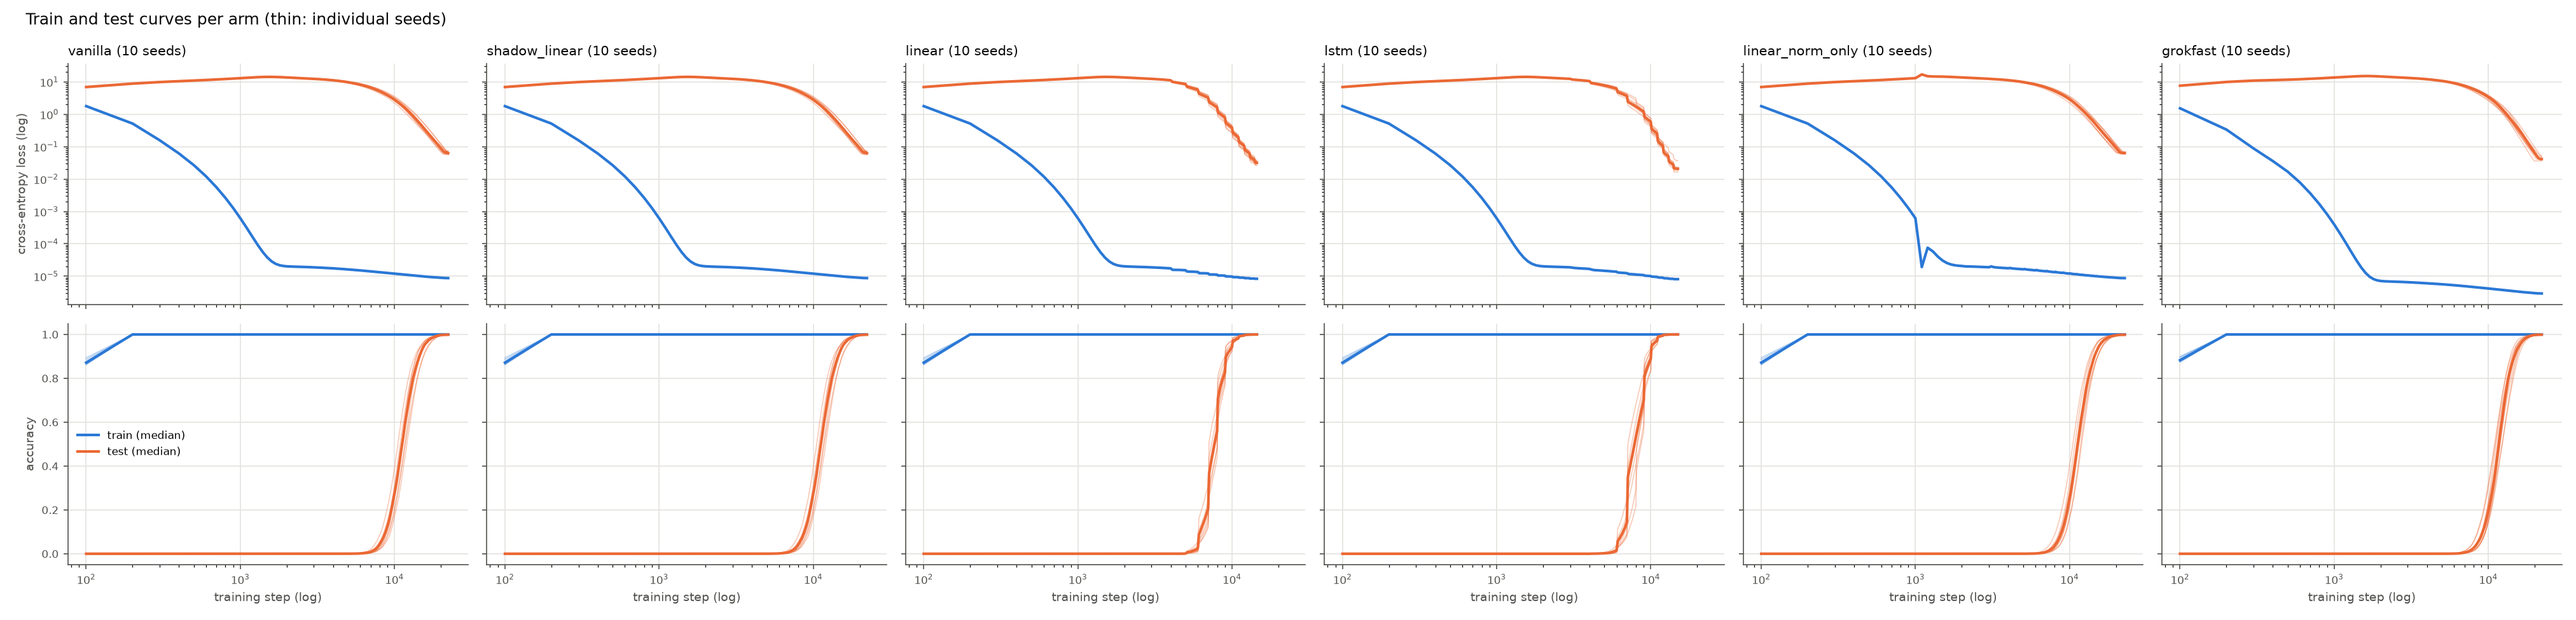
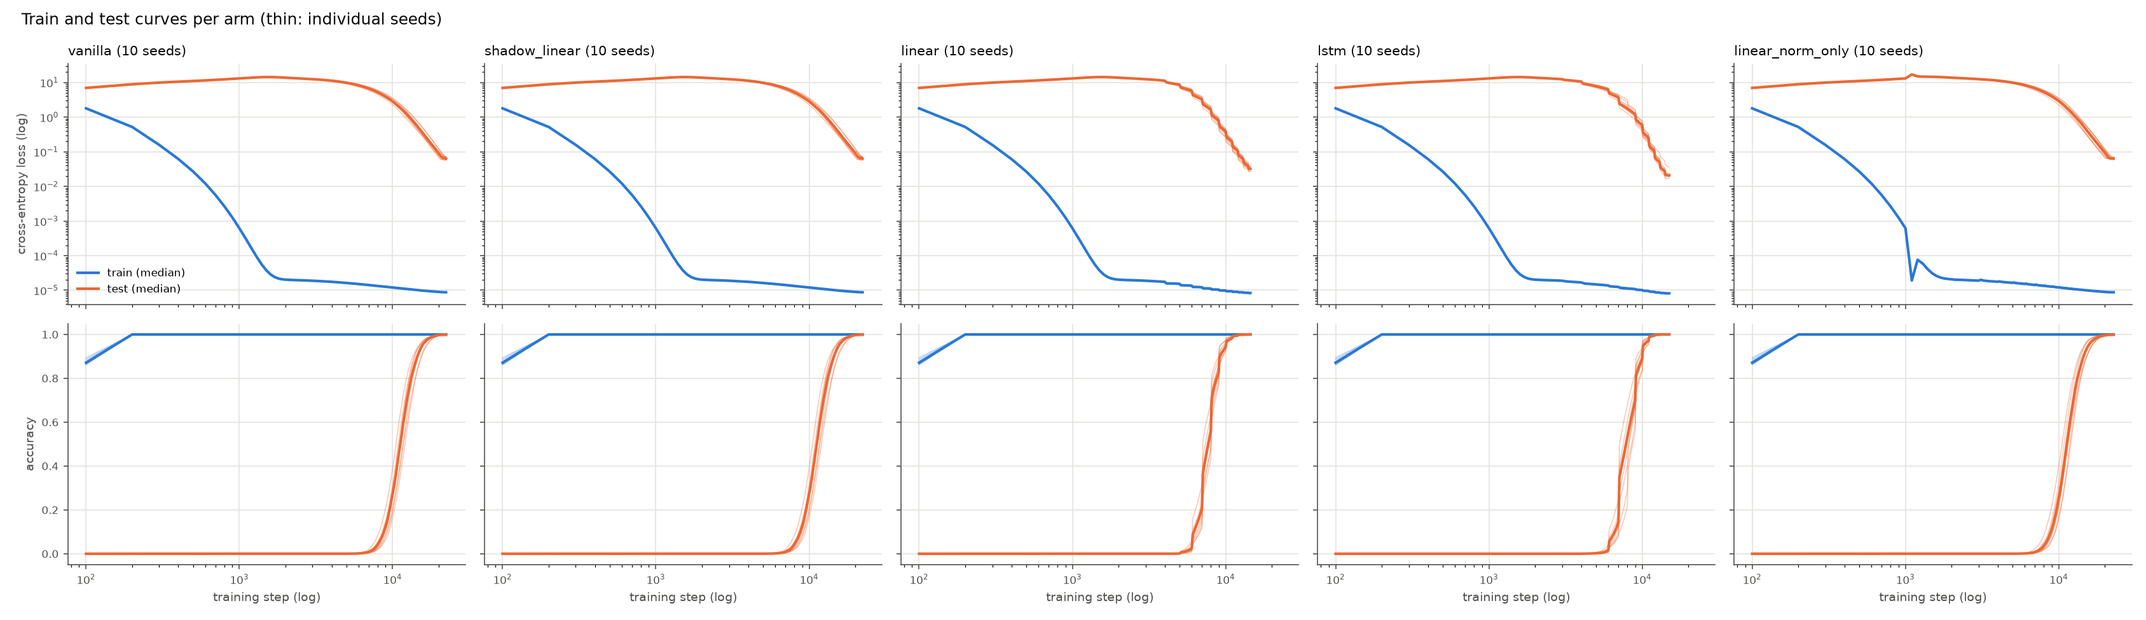
docs: redraw nowcast figures without the Grokfast arm
The final nowcast arms were re-run (45 runs, ~10 min); every remaining summary and stats row reproduces the committed numbers exactly, so the figures are redrawn from identical runs.

diff --git a/reports/figures/nowcast/lead_time.md b/reports/figures/nowcast/lead_time.md
@@ -1,0 +1,10 @@
+**vanilla**: first probe step with ≥ 10% of neurons passing (in brackets: that step / the run's grok step)
+
+| τ_share | τ_r2 | seed0 | seed1 | seed2 | seed3 | seed4 | seed5 | seed6 | seed7 | seed8 | seed9 | median ratio | ratio < 0.8 |
+|---|---|---|---|---|---|---|---|---|---|---|---|---|---|
+| 0.5 | 0.8 | 6,500 (0.36) | 6,000 (0.32) | 6,000 (0.34) | 7,000 (0.36) | 6,000 (0.32) | 6,500 (0.37) | 6,500 (0.36) | 5,500 (0.31) | 7,000 (0.36) | 6,500 (0.35) | 0.35 | 10/10 |
+| 0.5 | 0.9 | 9,500 (0.52) | 9,500 (0.51) | 10,000 (0.56) | 11,000 (0.57) | 9,000 (0.48) | 10,500 (0.59) | 9,500 (0.52) | 9,500 (0.54) | 10,000 (0.52) | 10,000 (0.53) | 0.53 | 10/10 |
+| 0.7 | 0.8 | 6,500 (0.36) | 6,500 (0.35) | 6,500 (0.37) | 7,000 (0.36) | 6,500 (0.35) | 7,000 (0.39) | 6,500 (0.36) | 6,000 (0.34) | 7,000 (0.36) | 7,000 (0.37) | 0.36 | 10/10 |
+| 0.7 | 0.9 | 9,500 (0.52) | 9,500 (0.51) | 10,000 (0.56) | 11,000 (0.57) | 9,000 (0.48) | 10,500 (0.59) | 9,500 (0.52) | 9,500 (0.54) | 10,000 (0.52) | 10,000 (0.53) | 0.53 | 10/10 |
+| 0.85 | 0.8 | 8,000 (0.44) | 7,500 (0.41) | 7,500 (0.42) | 8,500 (0.44) | 7,500 (0.40) | 8,000 (0.45) | 8,000 (0.44) | 7,000 (0.40) | 8,000 (0.41) | 8,000 (0.43) | 0.43 | 10/10 |
+| 0.85 | 0.9 | 9,500 (0.52) | 9,500 (0.51) | 10,000 (0.56) | 11,000 (0.57) | 9,000 (0.48) | 10,500 (0.59) | 10,000 (0.55) | 9,500 (0.54) | 10,000 (0.52) | 10,000 (0.53) | 0.54 | 10/10 |

diff --git a/reports/figures/nowcast/summary.md b/reports/figures/nowcast/summary.md
@@ -5,6 +5,5 @@
 | linear | 10 | 200 [200–200] (10/10) | 10,100 [9,750–10,100] (10/10) | 11,150 [11,100–11,275] (10/10) |
 | lstm | 10 | 200 [200–200] (10/10) | 10,250 [10,100–10,475] (10/10) | 11,350 [11,100–11,700] (10/10) |
 | linear_norm_only | 10 | 200 [200–200] (10/10) | 15,650 [15,075–16,275] (10/10) | 18,400 [17,725–19,050] (10/10) |
-| grokfast | 10 | 200 [200–200] (10/10) | 15,900 [15,400–16,150] (10/10) | 18,350 [17,650–18,475] (10/10) |
 
 Cells: median [IQR] step over runs that reached the milestone (reached/total).

diff --git a/reports/figures/nowcast/stats.md b/reports/figures/nowcast/stats.md
@@ -6,4 +6,3 @@ Steps to 99% test accuracy vs **vanilla** (median 18,400).
 | linear | 10/10 | 11,150 | +39% | [+36%, +42%] | 0.00018 |
 | lstm | 10/10 | 11,350 | +38% | [+34%, +41%] | 0.00017 |
 | linear_norm_only | 10/10 | 18,400 | +0% | [-5%, +5%] | 0.94 |
-| grokfast | 10/10 | 18,350 | +0% | [-3%, +5%] | 0.4 |
